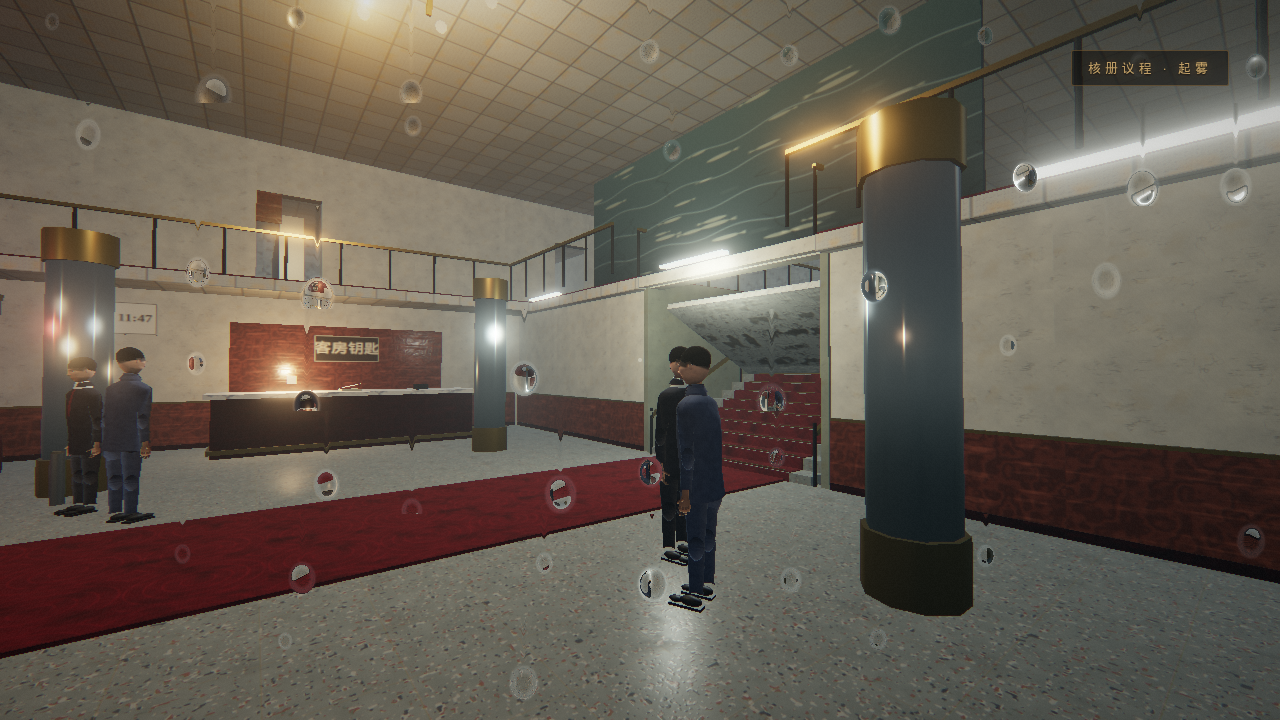
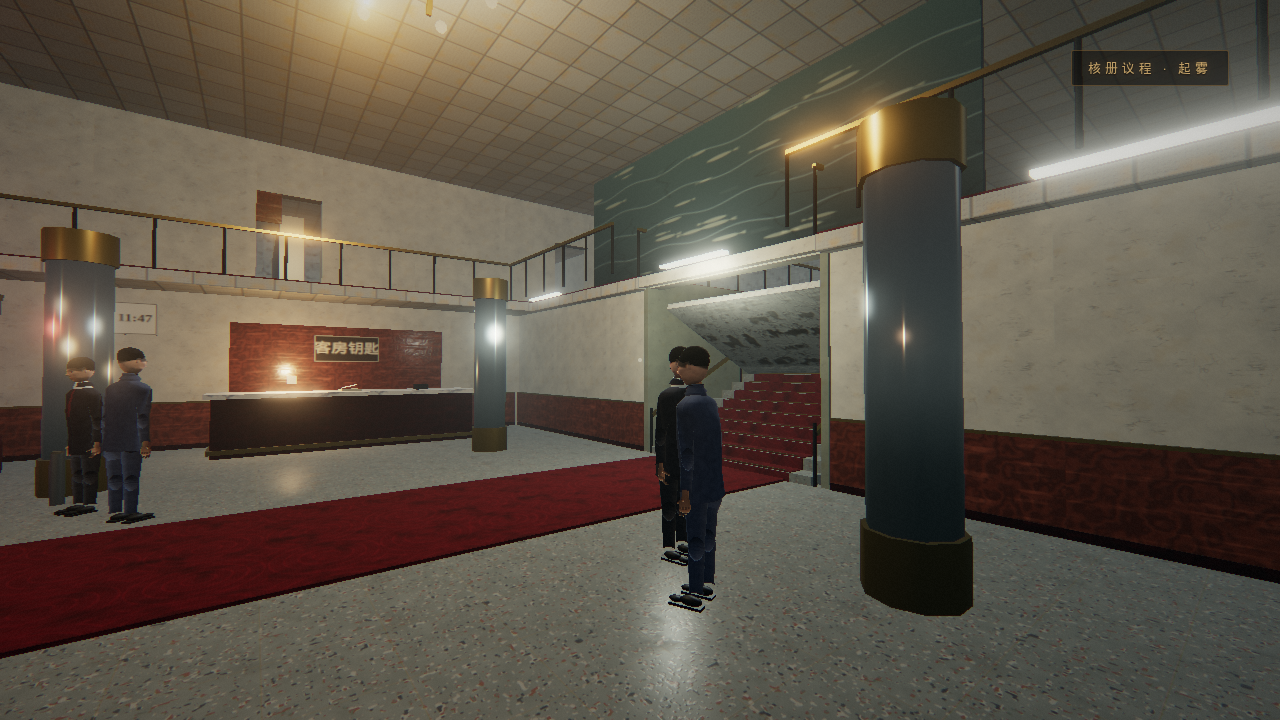
r22取证入库:36张bpy对照图(六主角五视图+三宾客两视图)+游戏内六张近景;湿镜头污染根治(跳场残留0.18靠游戏dt收干,无GPU headless下dt钳制墙钟收不干——station/hotelin取证前置零uWetLens)+keep交付图六张重落干净(station三张+hotel三张);README人群/station断言/r22轮次注记

diff --git a/README.md b/README.md
@@ -205,7 +205,10 @@ npm run desktop       # 不打包，直接以桌面窗口运行（开发用）
 - **AI**：状态机（劳作/巡逻/起疑/追击/搜索/归位/引座），视锥+楼层判定视线遮挡+听觉半径、
   最后目击点搜索；上宾走振动感知，理册婆走镜面提前一拍规则。
 - **CRT 预现**：低分辨率 RenderTarget + 第二相机 + 图层掩码，轮询刷新离玩家最近的屏。
-- **人群**：宴会厅满员用烘焙合并网格（一桌宾客一 draw call）。
+- **人群**：宴会厅满员三十席全部是 **bpy 轻量坐姿剪影 GLB**（r22：guest_a 藏蓝中山装老汉 /
+  guest_b 的确良白衬衫中年 / guest_c 绾髻蓝布衫婶，约 5.4k tris/人 <8k 预算——
+  低密放样躯干 + 低密头雕 + 真耳 + 发壳，眼与发影直接画进贴图），
+  运行时按材质烘焙合并（全厅 ≤21 draw call）；席面背景不再有程序化球关节人偶。
 
 ## Blender 细模管线（bpy → .blend → CLI 渲染 → GLB）
 
@@ -228,8 +231,8 @@ npx gltfpack -i blender/export/emcee.glb -o src/assets/models/emcee.glb -cc -kn
 ```
 
 多轮迭代对照图在 `verify/blender/`（r1 过曝胶囊 → r2 眼球出窝 → r3 四人成形 →
-r4 鞋裤衔接/湿客头身比 → r5 神像 → … → r21 工位件），`.blend` 工程在
-`blender/out/`（可打开续雕）。
+r4 鞋裤衔接/湿客头身比 → r5 神像 → … → r21 工位件 → r22 普通人基底收敛+宴席宾客），
+`.blend` 工程在 `blender/out/`（可打开续雕）。
 游戏内运行时装配在 `src/world/heroModels.js`：HeadPivot 转头三读法
 （守夜人慢转头 / 湿客极慢 creep / 橱窗立像「被注视即冻结」）、
 呼吸微动画（活人才有）、首见字幕、人形碰撞柱、灯光预算接入。
@@ -248,7 +251,16 @@ HeadPivot / 转头积分 / 首见字幕 / 湿客返潮点火才到岗。
 倒退步头锁死；眼点冷光挂眼锚点，警戒才亮；键光/轮廓光进灯光预算随人走。
 `node scripts/verify.mjs station` 断言：五具身体细模门槛(>9000 tris)/六 pivot 齐/
 道具在场(麦头/托盘/第三眼)/**工位禁止胶囊 Humanoid**/步态摆动/托盘锁定/
-眼点门控/视奸口径，并落盘 `verify/station/r21_*` 与 `verify/keep/station/` 取证。
+眼点门控/视奸口径/**宴会厅三十席 GLB 群像**（面数预算 <8k/人、合并 ≤24 draw call），
+并落盘 `verify/station/r22_*` 与 `verify/keep/station/` 取证。
+
+**r22（死魂曲读法收敛 + 宴席群像）**：三工位正脸/侧影收敛回「中年普通人」基底——
+发卡 1.0–1.6mm 贴皮压翘去「茅草头」、眉毛 4mm 贴骨去「毛虫眉」、眼区不对称豁免
+半径放宽 + 幅度减半根治「一圆一眯」、鼻尖钝球去「锥刺鼻」、口周凸吻回收、
+耳周头皮打底防「耳上秃斑」；司仪颧眉回拉、侍应颌颏补量去「三角脸」、理册婆
+颊沟减半颏补回。**6 米外先读成人，2 米内才读出唯一主异常**（钙化口缝/颈长头垂/
+眉心矿盘）。宴会厅三十席换 bpy 坐姿剪影件 `guest_a/b/c.glb`
+（`src/world/guestCrowd.js` 解码量化属性→float32 后按材质烘焙合并）。
 
 ## 项目结构
 
@@ -265,7 +277,7 @@ src/
   systems/       视奸、潜行/振动、CRT预现、议程时钟、叙事导演(文书/触发/检查点/终局)
   ui/            HUD(字幕/目标/文书/议程/振动/暂停/死亡/结局)
 scripts/         无头浏览器验证(构建→启动→截图→按九节拍自动通关)
-verify/blender/  Blender CLI 渲染的多轮迭代对照图（r1→r21）
+verify/blender/  Blender CLI 渲染的多轮迭代对照图（r1→r22）
 release/         Windows 便携 exe（入库，可直接下载运行）
 ```
 
